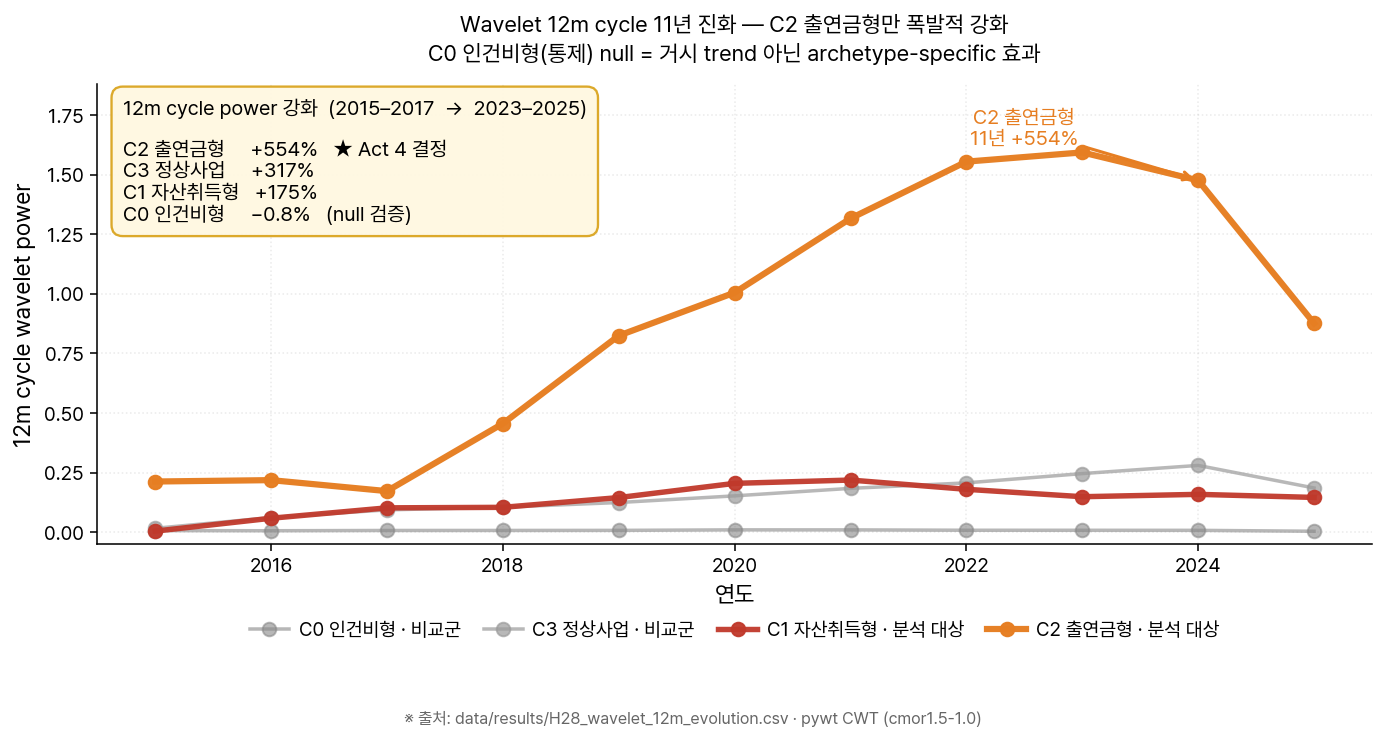
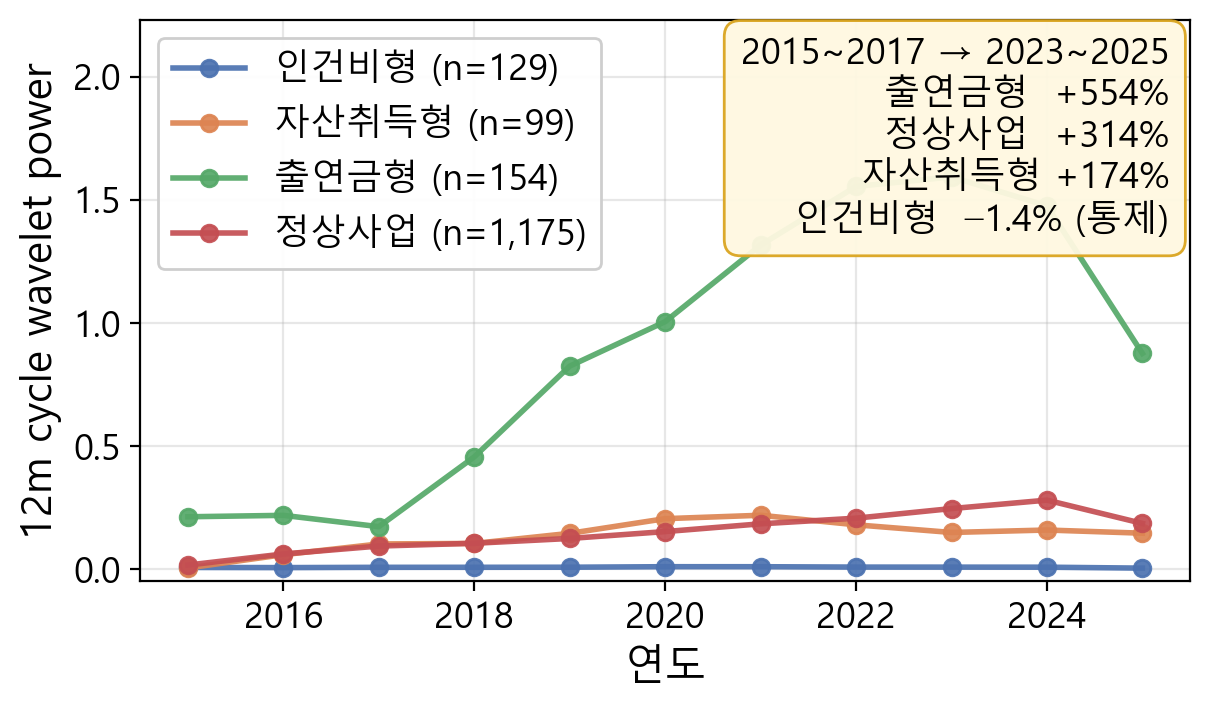
H28 웨이블릿 차트: 논문용·슬라이드용 분리 + 변화율 라벨 정정
문제: redo_fig15(논문용)와 build_slide28(슬라이드용)이 같은 파일명
paper/figures/h28_evolution.png 을 서로 덮어써, 논문에 슬라이드 스타일 차트가
박혀 있었음. 또 두 스크립트 모두 KPI 라벨에 stale 값(+317/+175/−0.8)이 하드코딩.

조치:
- 출력 경로 분리 — 논문용 redo_fig15 → paper/figures/h28_evolution.png(1210×710, 내부 legend, A4 컬럼폭),
  슬라이드용 build_slide28 → paper/figures/slides/h28_evolution.png(1385×741, 외부 legend, 발표 가독성).
  서로 덮어쓰지 않음. 슬라이드 PNG는 Figma 플레이스홀더 자산(레포 SVG는 임베드 안 함).
- 변화율 라벨 정정 — CSV(H28_wavelet_12m_evolution.csv) window(2015–17→2023–25) 검산:
  출연금 +553.5(≈554) / 정상 +314.3 / 자산취득 +174.1 / 인건비 −1.4. 두 스크립트 모두 반영.
  곡선은 원래 CSV 기반이라 정확했고, 텍스트 박스 라벨만 stale였음.
- 두 PNG 재생성 + typst 재컴파일(EXIT=0) 확인.
- data/PROVENANCE.md §1: h28_evolution 빌더를 redo_fig15(논문)로 정정 + 슬라이드 변종 주석.

diff --git a/scripts/build_slide28_evolution.py b/scripts/build_slide28_evolution.py
@@ -57,9 +57,9 @@ ax.text(0.02, 0.97,
         '12m cycle power 강화  (2015–2017  →  2023–2025)\n'
         '\n'
         'C2 출연금형     +554%   ★ Act 4 결정\n'
-        'C3 정상사업     +317%\n'
-        'C1 자산취득형   +175%\n'
-        'C0 인건비형     −0.8%   (null 검증)',
+        'C3 정상사업     +314%\n'
+        'C1 자산취득형   +174%\n'
+        'C0 인건비형     −1.4%   (null 검증)',
         transform=ax.transAxes, ha='left', va='top', fontsize=10.5,
         bbox=dict(boxstyle='round,pad=0.55', fc='#fff8e1',
                   ec='#daa520', linewidth=1.2, alpha=0.95))
@@ -93,7 +93,11 @@ fig.text(0.5, -0.02,
          ha='center', fontsize=8.5, color='#666', style='italic')
 
 plt.tight_layout(rect=[0, 0.03, 1, 0.93])
-out = ROOT / 'paper' / 'figures' / 'h28_evolution.png'
+# 슬라이드용 차트는 paper/figures/slides/ 에 저장 — 논문용(redo_fig15 → paper/figures/h28_evolution.png)과 분리.
+# Figma 플레이스홀더에 끼워넣을 발표용 자산. 논문 그림을 덮어쓰지 않는다.
+out_dir = ROOT / 'paper' / 'figures' / 'slides'
+out_dir.mkdir(parents=True, exist_ok=True)
+out = out_dir / 'h28_evolution.png'
 plt.savefig(out, dpi=140, bbox_inches='tight', facecolor='white')
 plt.close()
 

diff --git a/scripts/redo_fig15_evolution.py b/scripts/redo_fig15_evolution.py
@@ -74,9 +74,9 @@ ax.legend(loc='upper left', frameon=True, framealpha=0.95)
 ax.text(0.98, 0.97,
         '2015~2017 → 2023~2025\n'
         '출연금형  +554%\n'
-        '정상사업  +317%\n'
-        '자산취득형 +175%\n'
-        '인건비형  −0.8% (통제)',
+        '정상사업  +314%\n'
+        '자산취득형 +174%\n'
+        '인건비형  −1.4% (통제)',
         transform=ax.transAxes, ha='right', va='top', fontsize=13,
         bbox=dict(boxstyle='round,pad=0.45', fc='#fff8e1',
                   ec='#daa520', alpha=0.95))

diff --git a/data/PROVENANCE.md b/data/PROVENANCE.md
@@ -61,7 +61,7 @@ CSV 경로는 별도 표기 없으면 `data/results/` 기준. `HC=⚠`는 빌
 | `h27_coherence.png` | `build_report_figures.py` | h27_power_spectrum_coherence.py | H27_coherence_intra_archetype.csv | ⚠ |
 | `h27_phase.png` | `redo_fig12_phase.py` | h27_power_spectrum_coherence.py | H27_phase_distribution.csv | ⚠ |
 | `h27_psd.png` | `build_slide27_psd.py` | h27_power_spectrum_coherence.py | H27_psd_archetype_avg.csv | |
-| `h28_evolution.png` | `build_slide28_evolution.py` | h28_wavelet.py | H28_wavelet_12m_evolution.csv | |
+| `h28_evolution.png` | `redo_fig15_evolution.py`(논문) | h28_wavelet.py | H28_wavelet_12m_evolution.csv | |
 | `h28_scaleogram.png` | `build_slide28_scaleogram.py` | (h28 계열) | H3_activity_embedding_11y.csv (+ warehouse) | |
 | `h29_np_forecast.png` | `build_slide29_np_forecast.py` | (NeuralProphet) | H3_activity_embedding_11y.csv (+ warehouse) | ⚠ |
 | `h30_triangulation.png` | `build_slide30_triangulation.py` | h26_neuralprophet_check.py | H26_field_outcome_corr_np.csv | ⚠ |
@@ -79,6 +79,8 @@ CSV 경로는 별도 표기 없으면 `data/results/` 기준. `HC=⚠`는 빌
 | `v3_calibration.png` | `generate_v3_charts.py` | — | v3_calibration_wt_wq_ratios.csv | ⚠ |
 
 > 빌더 경로는 모두 `scripts/` 기준. `build_report_figures.py`는 옛 `analysis_report.typ` 전용이라 `scripts/_archive/`로 격리됨 — 위 그림(h22_rdd_field·h27_coherence·h8_panel·h3_umap)은 동일 데이터를 읽는 active 빌더(`redo_fig*`·`build_slide*`)가 `paper/figures/`의 정본을 생성한다. 자세한 중복 빌더 관계는 워크플 provenance 노트 참조.
+> **슬라이드용 H28 진화 차트는 별도**: `build_slide28_evolution.py` → `paper/figures/slides/h28_evolution.png` (발표 가독성용 가로형·외부 legend, Figma 플레이스홀더 자산). 논문용(`redo_fig15`)과 출력 경로·레이아웃 분리 — 서로 덮어쓰지 않는다.
+
 
 ---
 
